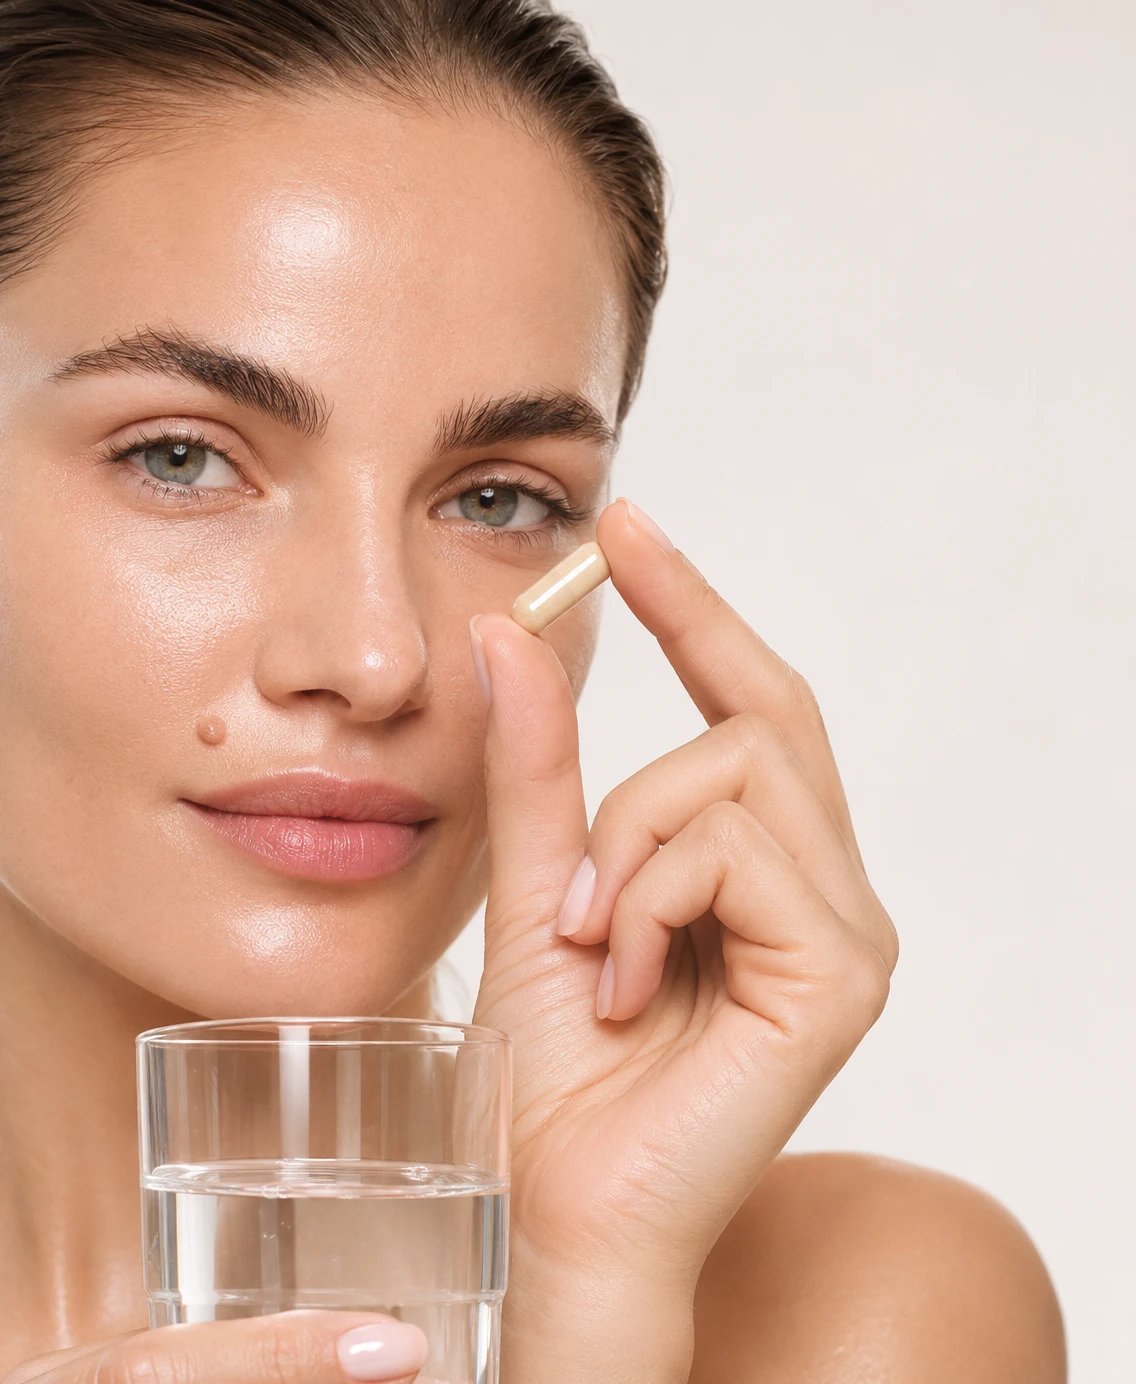
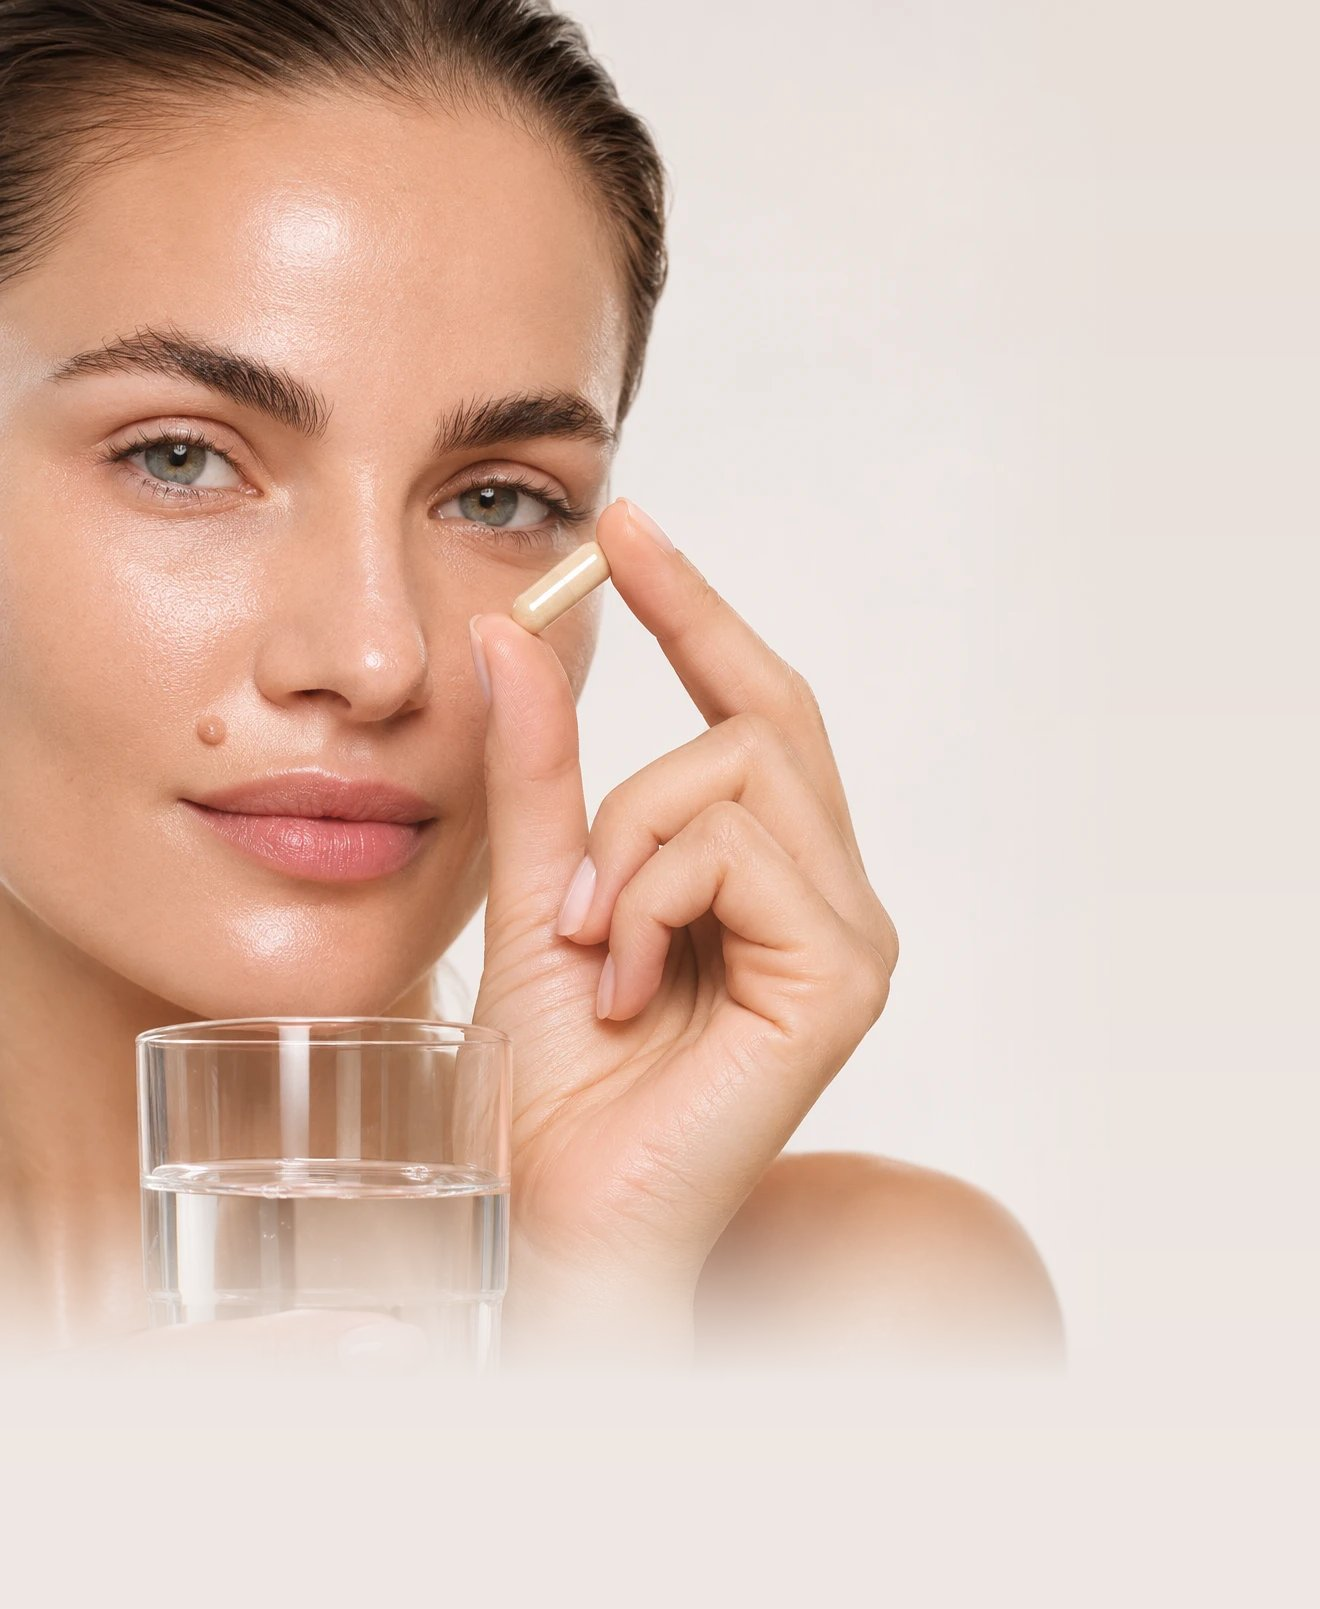
Dermocosmetics card: zoomed-out framing

diff --git a/index-center.html b/index-center.html
@@ -860,7 +860,7 @@ html.logo-wait .hdr .logo{opacity:0}
     </div>
     <div class="wx-track" id="track">
       <a class="wx-card" href="#therapy"><img src="assets/clinical-dermatology.jpg" alt="Close-up of skin cells suspended in clear spheres" loading="lazy" style="object-position:60% 40%"><div class="tx"><h3>Clinical Dermatology</h3><p>Specialised treatments for more skin and hair concerns.</p></div></a>
-      <a class="wx-card" href="#brands"><img src="assets/dermocosmetics.jpg" alt="Woman with glowing skin holding a capsule and a glass of water" loading="lazy" style="object-position:42% 30%"><div class="tx"><h3>Dermocosmetics</h3><p>Thoughtful everyday skincare for every skin type and need.</p></div></a>
+      <a class="wx-card" href="#brands"><img src="assets/dermocosmetics.jpg" alt="Woman with glowing skin holding a capsule and a glass of water" loading="lazy" style="object-position:30% 0%"><div class="tx"><h3>Dermocosmetics</h3><p>Thoughtful everyday skincare for every skin type and need.</p></div></a>
       <a class="wx-card" href="#therapy"><img src="assets/cosmetology.jpg" alt="Aesthetic treatment in a clinic" loading="lazy"><div class="tx"><h3>Professional Aesthetics &amp; Cosmetology</h3><p>Specialised products that take professional practice further.</p></div></a>
       <a class="wx-card" href="#derm"><img src="assets/portal.jpg" alt="Doctor using a tablet" loading="lazy"><div class="tx"><h3>Practice Solutions</h3><p>Knowledge, tools and support to grow beyond the clinic.</p></div></a>
     </div>

diff --git a/index.html b/index.html
@@ -860,7 +860,7 @@ html.logo-wait .hdr .logo{opacity:0}
     </div>
     <div class="wx-track" id="track">
       <a class="wx-card" href="#therapy"><img src="assets/clinical-dermatology.jpg" alt="Close-up of skin cells suspended in clear spheres" loading="lazy" style="object-position:60% 40%"><div class="tx"><h3>Clinical Dermatology</h3><p>Specialised treatments for more skin and hair concerns.</p></div></a>
-      <a class="wx-card" href="#brands"><img src="assets/dermocosmetics.jpg" alt="Woman with glowing skin holding a capsule and a glass of water" loading="lazy" style="object-position:42% 30%"><div class="tx"><h3>Dermocosmetics</h3><p>Thoughtful everyday skincare for every skin type and need.</p></div></a>
+      <a class="wx-card" href="#brands"><img src="assets/dermocosmetics.jpg" alt="Woman with glowing skin holding a capsule and a glass of water" loading="lazy" style="object-position:30% 0%"><div class="tx"><h3>Dermocosmetics</h3><p>Thoughtful everyday skincare for every skin type and need.</p></div></a>
       <a class="wx-card" href="#therapy"><img src="assets/cosmetology.jpg" alt="Aesthetic treatment in a clinic" loading="lazy"><div class="tx"><h3>Professional Aesthetics &amp; Cosmetology</h3><p>Specialised products that take professional practice further.</p></div></a>
       <a class="wx-card" href="#derm"><img src="assets/portal.jpg" alt="Doctor using a tablet" loading="lazy"><div class="tx"><h3>Practice Solutions</h3><p>Knowledge, tools and support to grow beyond the clinic.</p></div></a>
     </div>
